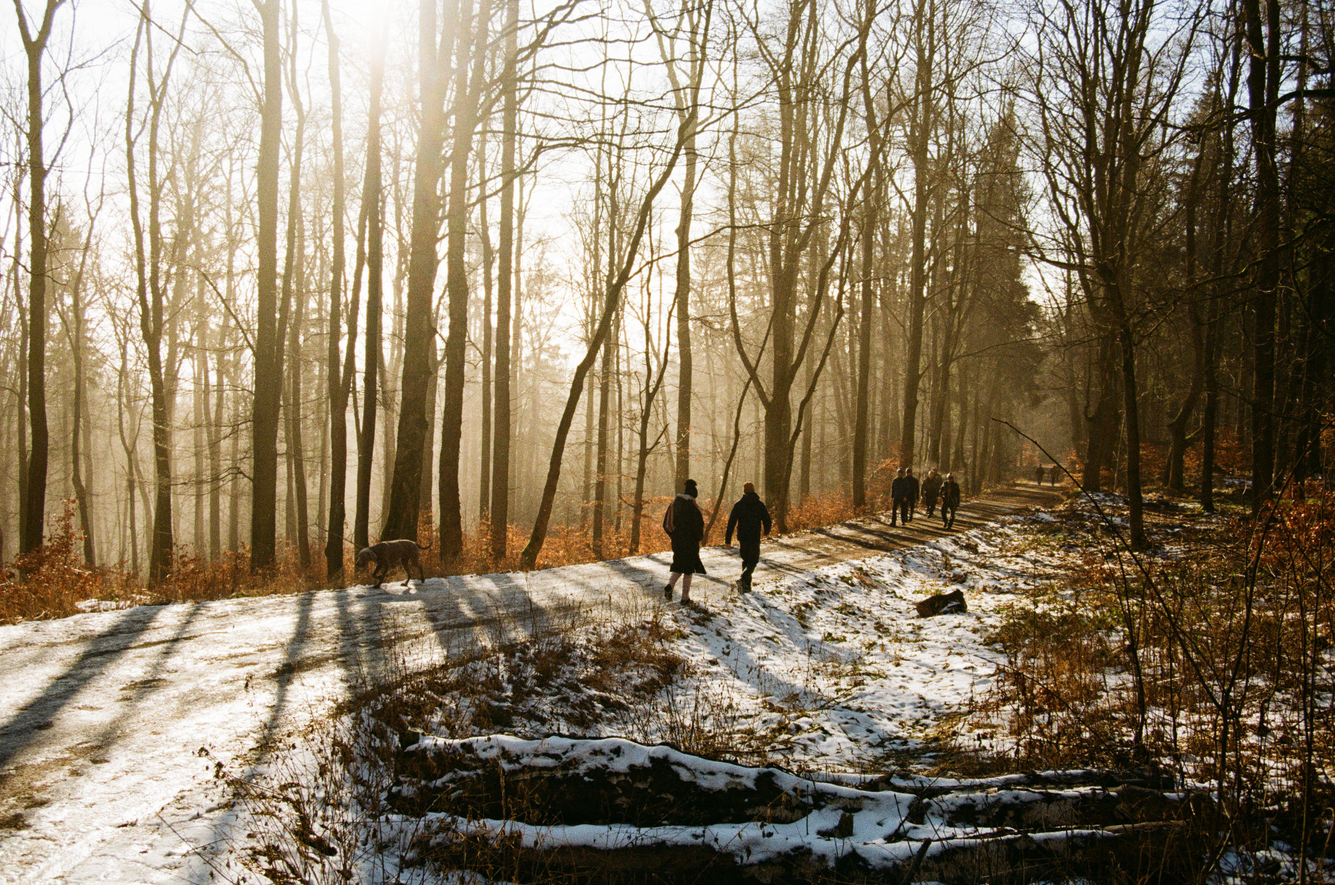
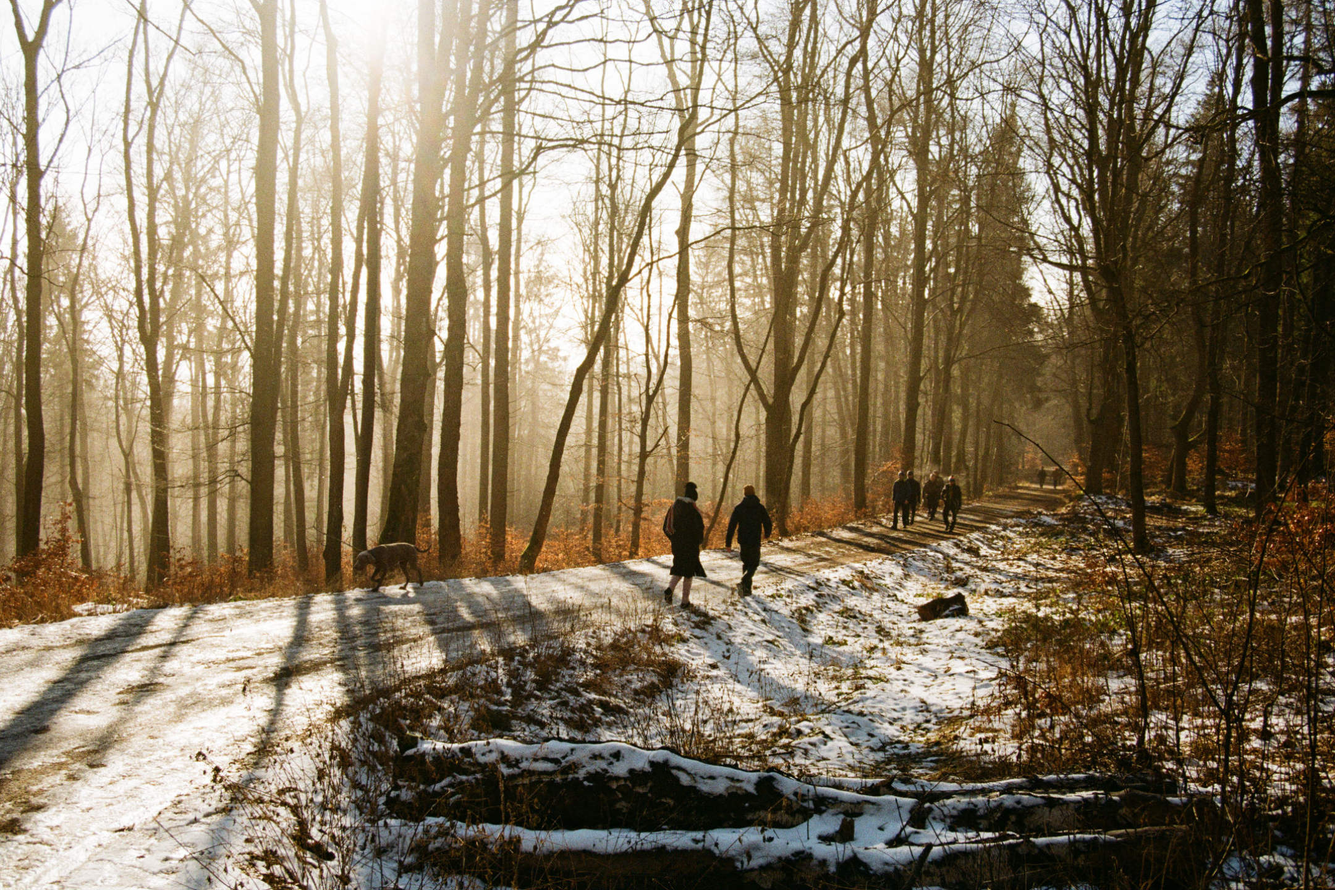
oprava pro mobil (snad)

diff --git a/index.html b/index.html
@@ -100,67 +100,37 @@
             margin-bottom: 60px; /* Větší mezera pod touto sekcí */
         }
 
-        /* --- SEKCE 2: Alba (proklikávací) --- */
-        .albums-section {
-            border-top: 1px solid #eee; /* Jemná dělící čára */
-            padding-top: 50px;
-        }
+       
 
-        .section-title {
-            text-align: center;
-            text-transform: uppercase;
-            letter-spacing: 2px;
-            font-size: 1.2rem;
-            margin-bottom: 40px;
-        }
-
-        .album {
-            display: block;
-            transition: transform 0.3s ease;
-        }
-
-        .album:hover {
-            transform: translateY(-5px);
-        }
-
-        /* Alba mají větší mezery */
-        .albums-section .photo-grid {
-            gap: 40px; 
-        }
-
-        .album-title {
-            text-align: center;
-            margin-top: 15px;
-            font-size: 1.1rem;
-            letter-spacing: 1px;
-            font-weight: normal;
-        }
-
+        /* Responzivita pro mobilní telefony */
         /* Responzivita pro mobilní telefony */
         /* Responzivita pro mobilní telefony */
         @media (max-width: 768px) {
             .header-content {
                 flex-direction: column;
                 gap: 15px;
-                padding: 20px 5%; /* Těchto 5 % zajistí, že to nebude nalepené na okraji */
+                padding: 20px 5%;
             }
             
             nav ul {
                 gap: 10px;
-                flex-wrap: wrap; /* Zalomí text na další řádek, pokud by byl displej moc úzký */
+                flex-wrap: wrap;
                 justify-content: center;
             }
 
+            /* --- OPRAVENÁ MŘÍŽKA PRO MOBIL --- */
             .photo-grid {
-                grid-template-columns: 1fr; /* Na mobilu vše pod sebou */
-                gap: 10px !important;
+                column-count: 1; /* Správný příkaz pro jeden sloupec */
+                column-gap: 0;
+            }
+            
+            .album, .image-placeholder {
+                margin-bottom: 10px; /* Toto teď dělá tu 10px mezeru mezi fotkami pod sebou */
             }
             
             .intro-photos {
                 margin-bottom: 40px;
             }
-
-            
         }
     </style>
 </head>
